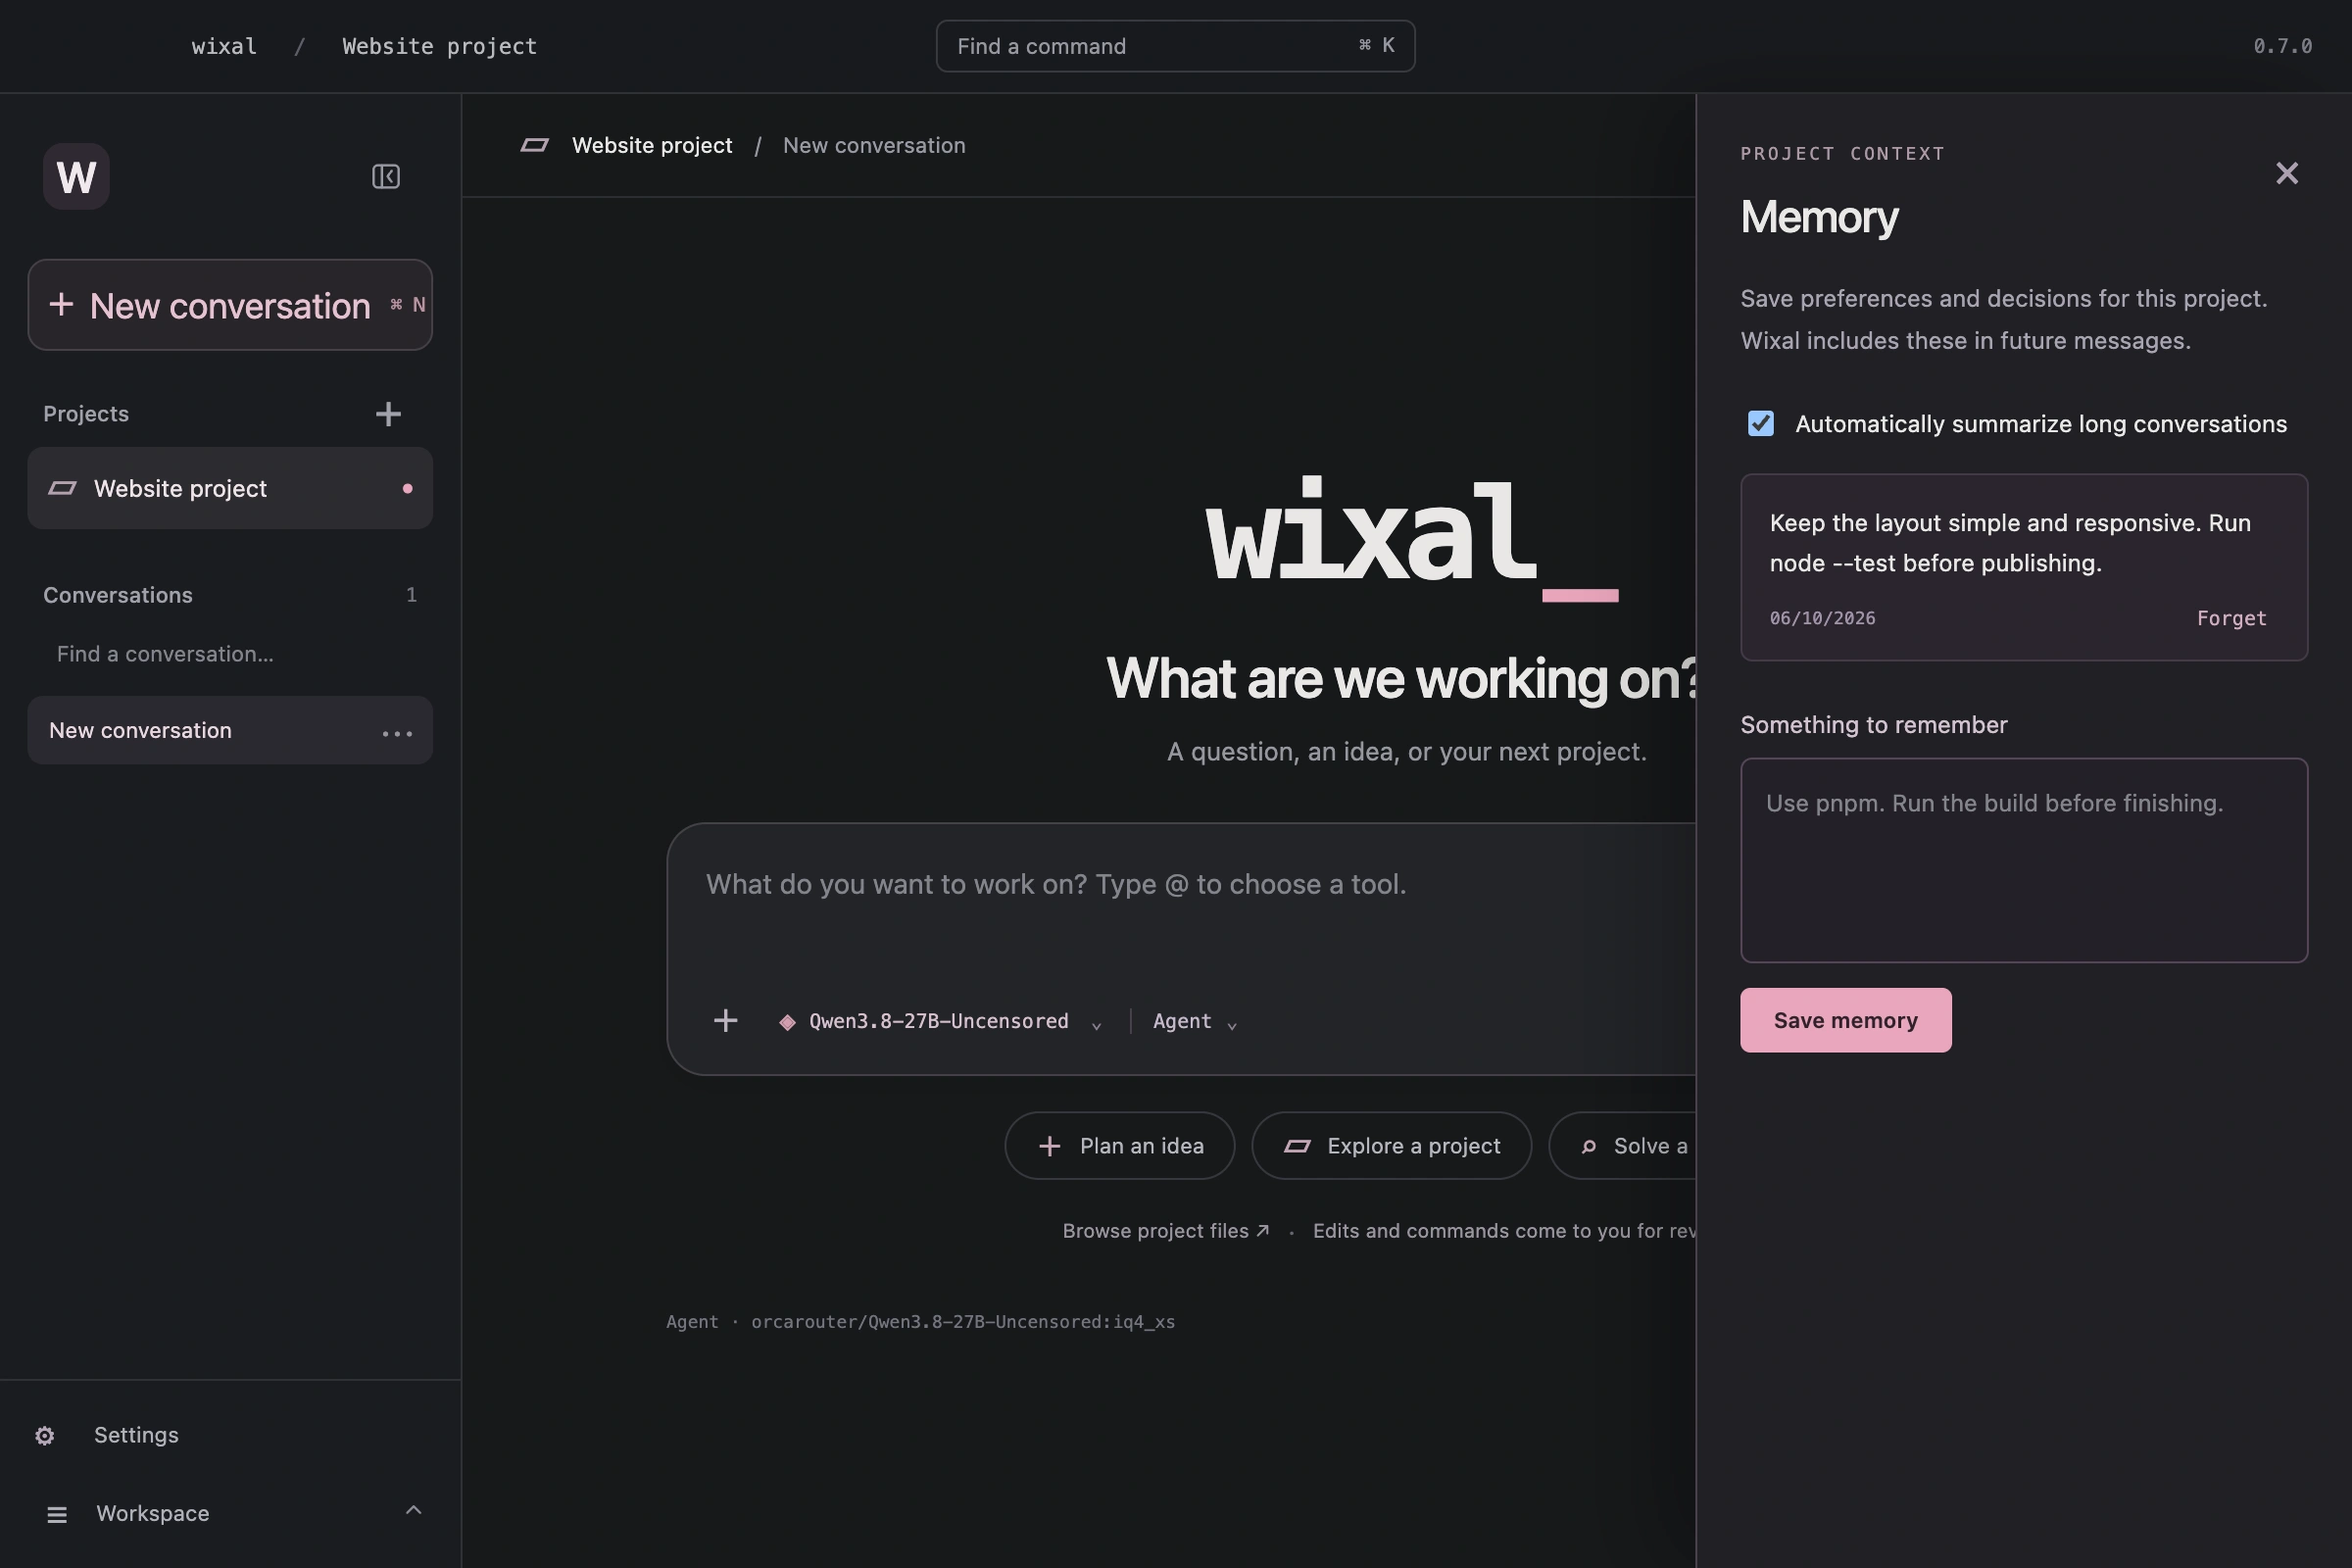
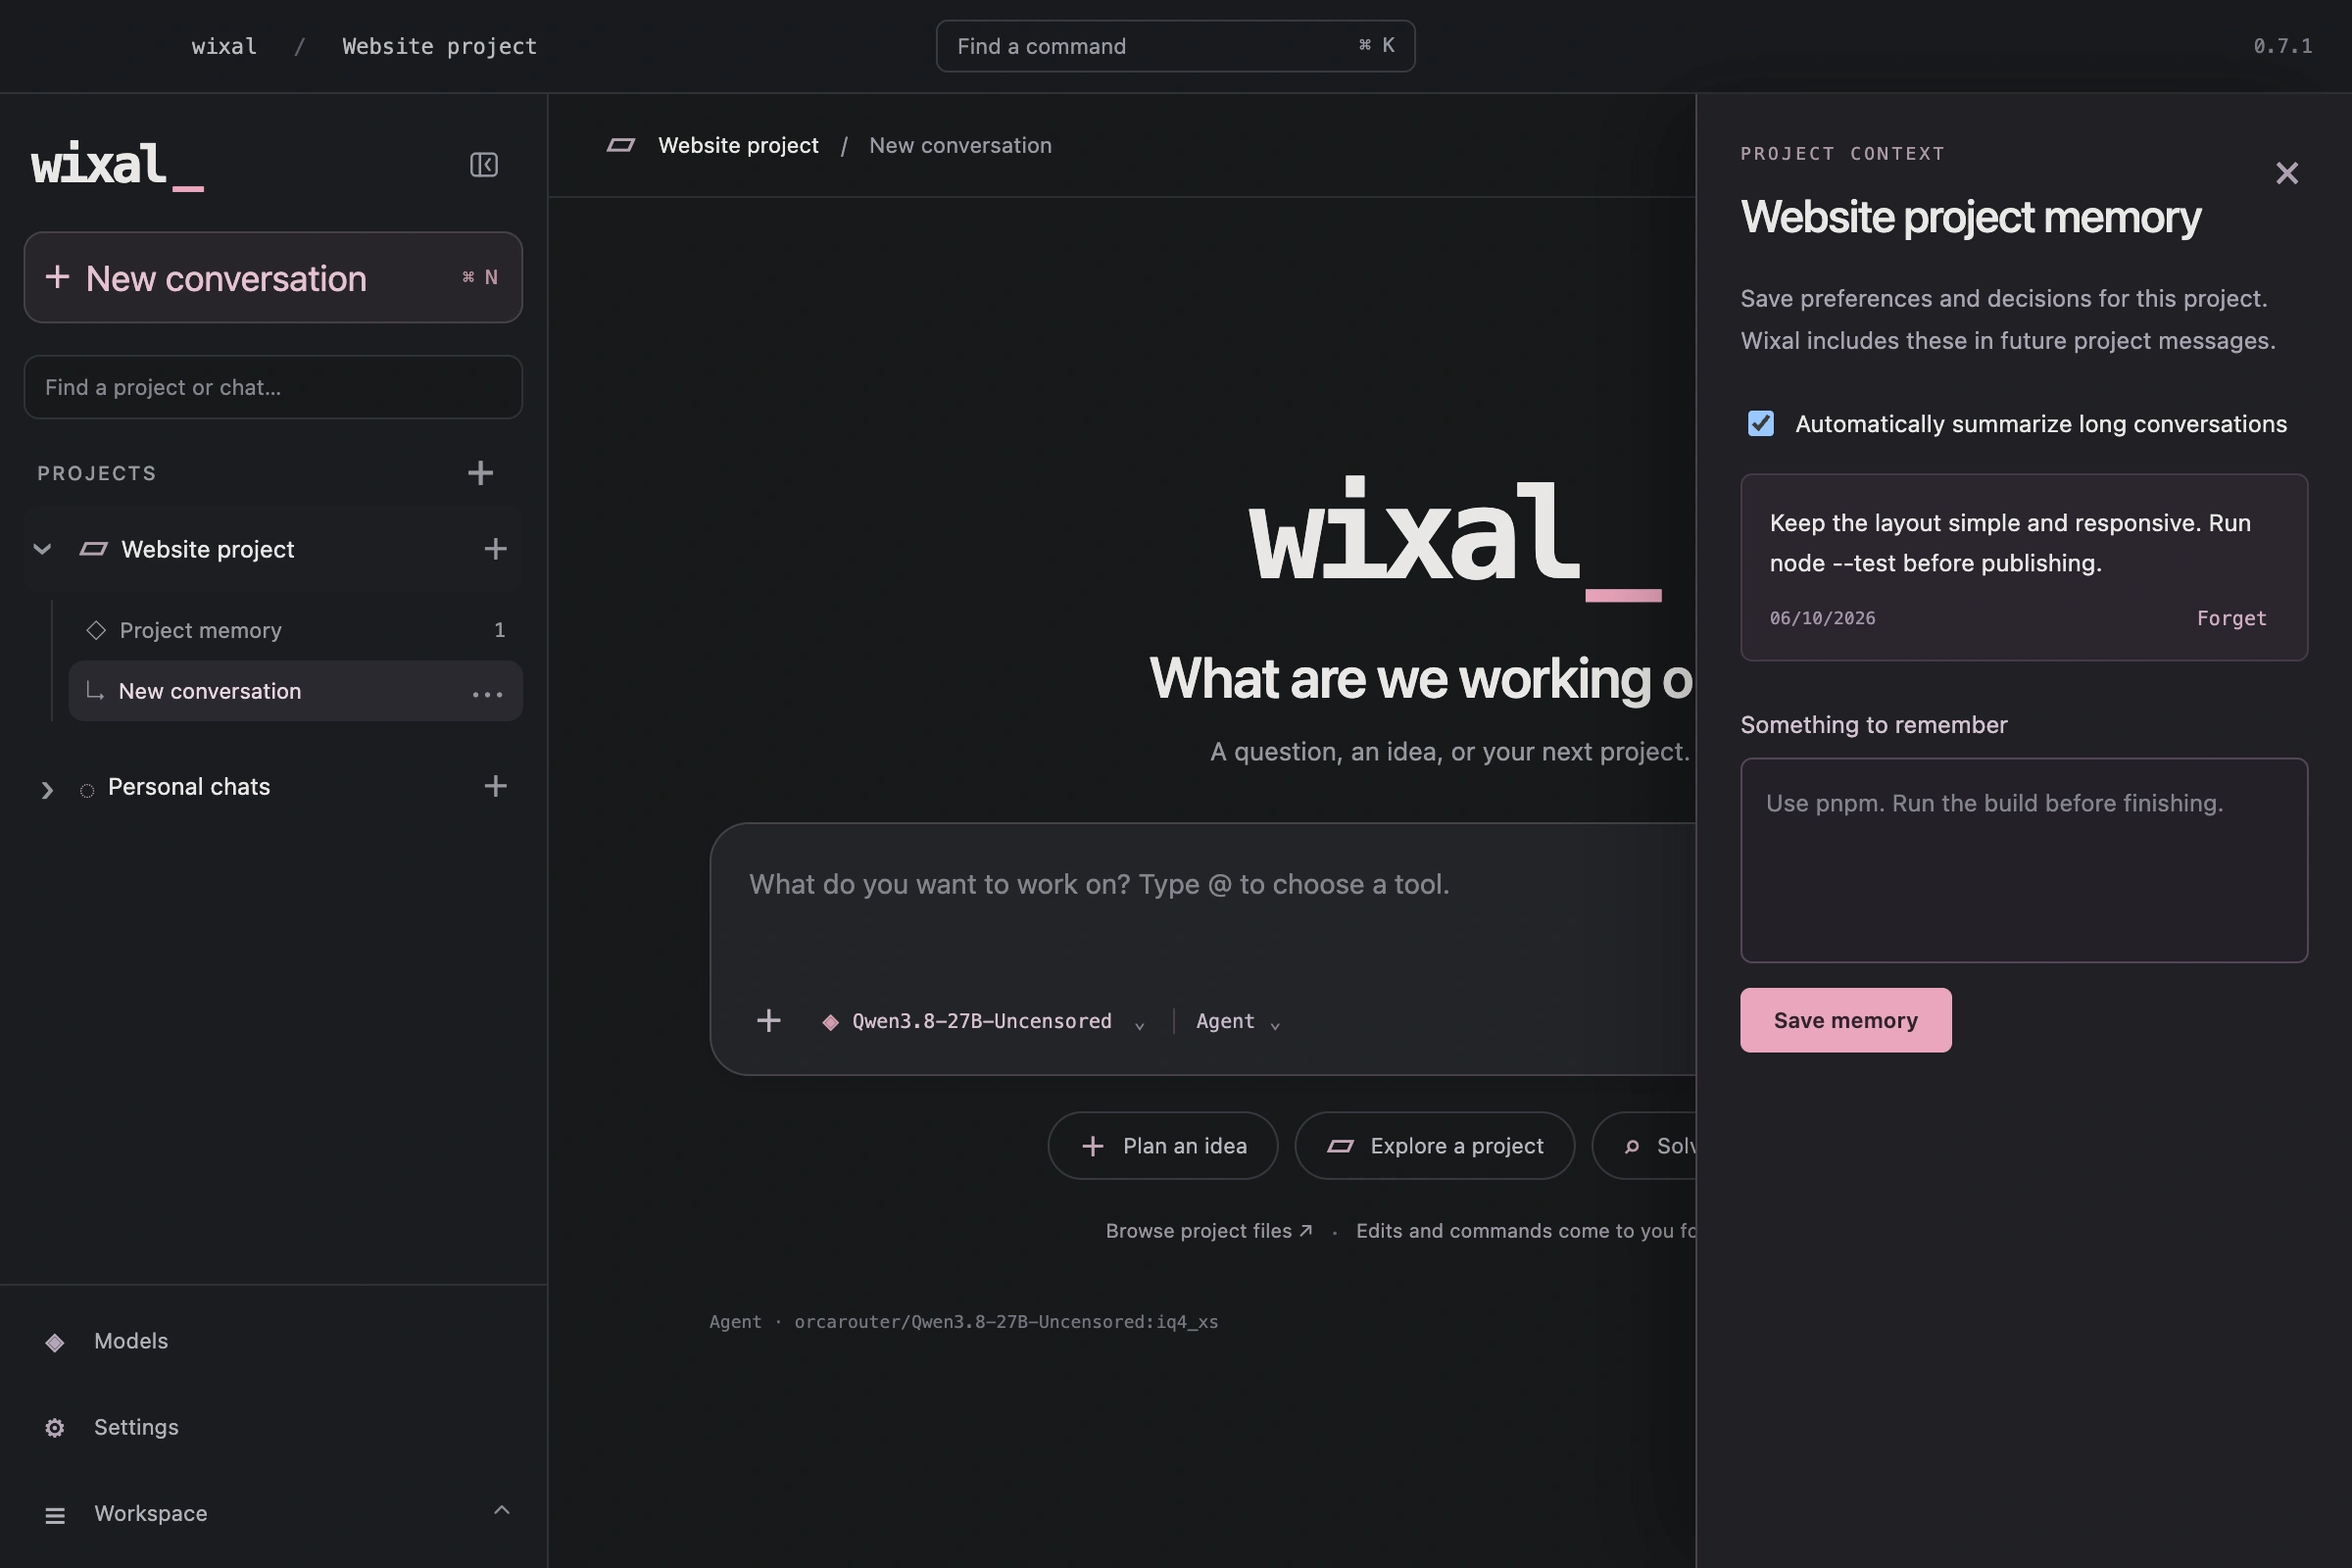
Refresh Wixal product pages and real app images for 0.7.1

diff --git a/website/README.md b/website/README.md
@@ -38,11 +38,11 @@ GitHub Pages must use GitHub Actions as its build source. The published URL is h
 
 ## Content and assets
 
-`scripts/build.mjs` contains the shared templates and page content. `src/styles.css` defines the responsive design system; `src/site.js` handles navigation, screenshot tabs, and appearance. Wixal 0.7.0 workspace, model manager, tool kit and performance captures are saved as WebP. Files, memory, terminal, connections, explicit tool selection, command tools, web tool cards and MCP setup previews are captured from 0.7.0, and the existing folded W mark is used in the header and favicon.
+`scripts/build.mjs` contains the shared templates and page content. `src/styles.css` defines the responsive design system; `src/site.js` handles navigation, screenshot tabs, and appearance. Wixal 0.7.1 workspace, model manager, tool kit and performance captures are saved as WebP. Files, memory, terminal, connections, explicit tool selection, command tools, web tool cards and MCP setup previews are captured from 0.7.1, and the existing folded W mark is used in the header and favicon.
 
 The Cursor homepage and product page informed the neutral palette, quiet navigation, typography, whitespace, product previews, and download buttons. Wixal uses its own content and assets. No Cursor fonts, logo, screenshots, customer endorsements, or product claims are shipped.
 
-Download links target the verified v0.7.0 release. Update the release version and copy in `scripts/build.mjs` when shipping a new release. Provider features follow the current published Wixal docs. The companion illustration is labelled as an illustration, not a screenshot. All site pages and download links work without JavaScript. Mobile navigation, screenshot switching, and appearance controls use JavaScript.
+Download links target the verified v0.7.1 release. Update the release version and copy in `scripts/build.mjs` when shipping a new release. Provider features follow the current published Wixal docs. The companion illustration is labelled as an illustration, not a screenshot. All site pages and download links work without JavaScript. Mobile navigation, screenshot switching, and appearance controls use JavaScript.
 
 Design concepts in `design/` were created with the built-in image generation tool. They are development references and are not part of the published site. Their brief was to retain the Cursor product page's #f7f7f4 / #26251e palette, understated regular grotesk type, open spacing, existing Wixal folded W branding, four source-grounded product areas, and the download/footer continuation. Actual Wixal screenshots intentionally replace generated app mockups. See `design/verification.md` for comparison notes.
 
@@ -60,7 +60,7 @@ The build reads intrinsic WebP dimensions directly and uses them in each image's
 
 Styles, scripts, and screenshots use content-derived asset versions so browsers fetch updated files after a deployment.
 
-The 0.7.0 update uses the actual release app captures in `docs/screenshots`, including reported usage and a completed real benchmark. The local engine, tool defaults, model manager and macOS minimum match this release.
+The 0.7.1 update uses the actual release app captures in `docs/screenshots`, including reported usage and a completed real benchmark. The local engine, tool defaults, model manager and macOS minimum match this release.
 
 The Tools page explains explicit tool selection, reviewed file edits, command sessions, rendered web inspection, search, JSON APIs and external MCP setup. Product memory includes notes, prior-chat search and inspectable summaries. The dark appearance uses neutral #101010 black and #191919 charcoal surfaces, neutral grey text, subtle borders and restrained orange link accents; it also styles the navigation, footer, screenshot frames, gallery, buttons and enlarged viewer. Light appearance retains the original neutral palette.
 
@@ -75,3 +75,5 @@ node website/scripts/capture-features.cjs /absolute/path/to/release-checkout --s
 ```
 
 Use a clean checkout of the release with the desktop dependencies installed. This mode captures actual project-memory controls, a saved sample note and the browser-inspection control. It uses a disposable project/state and does not run a model or a web request. The memory capture frames the drawer through its actual saved-note element; no UI or result is fabricated.
+
+The 0.7.1 refresh uses genuine packaged app captures of the Models page and verified download queue. Download links target v0.7.1. The local provider is Wixal Local; Ollama is credited as the underlying engine.
